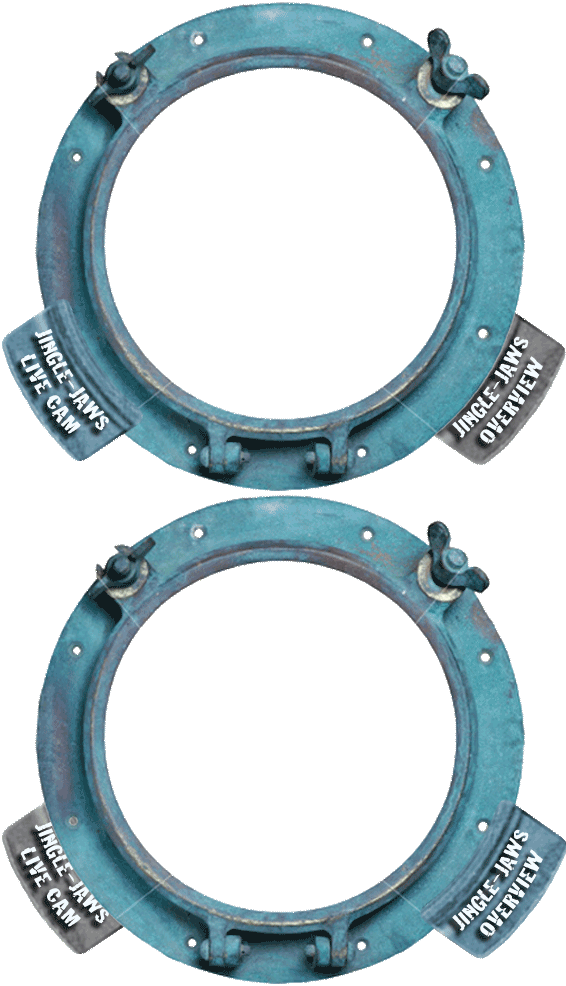
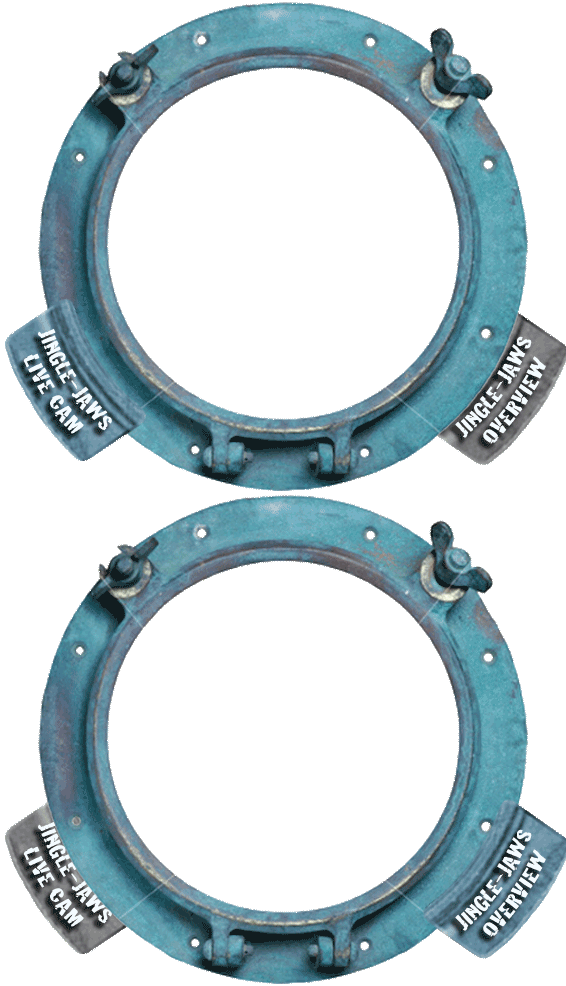
bunch of css and js to size, place and animate elements

diff --git a/src/rails/app/assets/javascripts/JJ/views/chum.js b/src/rails/app/assets/javascripts/JJ/views/chum.js
@@ -14,7 +14,15 @@ var CHUM = CHUM ||
 				_porthole: $('#porthole'),
 				_viewport: $('#viewport'),
 				_colLeft: $('#col-left'),
-				_colRight: $('#col-right')
+				_colRight: $('#col-right'),
+				_colMid: $('#col-mid'),
+				_controls: $('#controls'),
+				_logoWrap: $('#logo-wrap'),
+				_ticker: $('#ticker'),
+				_tank: $('#tank'),
+				_shark: $('#shark'),
+				_sleigh: $('#sleigh'),
+				_header: $('#header')
 			};
 		}(),
 
@@ -22,6 +30,8 @@ var CHUM = CHUM ||
 
 		$(CHUM.log);
 		$(CHUM.setVideoSize);
+		$(window).resize(CHUM.setVideoSize);
+		$(CHUM.global._logoWrap).click(CHUM.showContentState);
 	},
 
 	setVideoSize: function() {
@@ -30,17 +40,20 @@ var CHUM = CHUM ||
 				w: $(CHUM.global._mainWrap).width(),
 				h: $(CHUM.global._mainWrap).height()
 			},
-			colWidth = $(CHUM.global._colLeft).width() + $(CHUM.global._colRight).width(),
+			gutterWidth = $(CHUM.global._colLeft).width() + $(CHUM.global._colRight).width(),
 			pAspectRatio = 1.148,
-			vAspectRatio = 1.333,
 			pDims = {},
-			vDims = {}
-			pMax = {},
-			vMax = {};
+			vDims = {},
+			pMax = {};
 
 
-		pMax.w = wrapperDims.w - colWidth;
-		pMax.h = wrapperDims.h - 40;
+		$(CHUM.global._colMid).width(wrapperDims.w - gutterWidth);
+		CHUM.center(CHUM.global._colMid);
+
+		CHUM.center(CHUM.global._sleigh);
+		
+		pMax.w = wrapperDims.w - gutterWidth;
+		pMax.h = wrapperDims.h - 80;
 		CHUM.log(pMax);
 
 		pDims = pMax;
@@ -58,16 +71,84 @@ var CHUM = CHUM ||
 
 		$(CHUM.global._porthole).width(pDims.w);
 		$(CHUM.global._porthole).height(pDims.h);
+		$(CHUM.global._videoWrap).height(pDims.h);
+		$(CHUM.global._controls).css('top', pDims.h * -.15);
 
-		vDims.w = pDims.w * .840;
-		vDims.h = pDims.h * .739;
+		vDims.w = pDims.w * .84;
+		vDims.h = pDims.w * .84;
+		vDims.t = pDims.w * .12;
 
-		$(CHUM.global._viewport).width(vDims.w);
-		$(CHUM.global._viewport).height(vDims.h);
 		$(CHUM.global._viewport).css({
-			left: ( $(CHUM.global._videoWrap).width() - vDims.w ) / 2
+			width: vDims.w,
+			height: vDims.h
 		});
 
+		CHUM.center(CHUM.global._viewport);
+		CHUM.center($('video'), 'vertical');
+
+	},
+
+	center: function(ele, dim, context) {
+
+		context = context || $(ele).parent();
+		dim = dim || 'horizontal';
+
+		switch(dim) {
+			case 'vertical' : CHUM.log($(ele)); $(ele).css('top', ($(context).height() - $(ele).height()) / 2); break;
+			case 'horizontal' : $(ele).css('left', ($(context).width() - $(ele).width()) / 2); break;
+		}
+
+	},
+
+	showContentState: function() {
+
+
+
+		$(CHUM.global._sleigh).animate({
+			left: $(CHUM.global._ticker).width() + 150
+		}, 2000, function() {
+
+			$(CHUM.global._logoWrap).animate({
+				width: 390,
+				marginLeft: 102
+			}, 1000, function(){
+				$(CHUM.global._header).css({
+					height: 157,
+					backgroundPosition: '0 -40px'
+				});
+
+				$(CHUM.global._tank).animate({
+					height: 160
+				}, 1000);
+
+				$(CHUM.global._shark).animate({
+					height: 160,
+					width: 160,
+					marginLeft: 102
+				}, 1000, function(){
+
+					$('.content-col').css({
+						visibility: 'visible',
+						opacity: 1
+					});
+					$(CHUM.global._ticker).css({
+						width: '80%',
+						top: 'auto',
+						bottom: 10,
+						left: 262
+					});
+					CHUM.doTicker();
+				});
+			});
+
+		});
+	},
+
+	doTicker: function() {
+		$('#ticker-content').html('Well, shake it up, baby, now, (shake it up, baby) Twist and shout. (twist and shout) Cmon cmon, cmon, cmon, baby, now, (come on baby) Come on and work it on out. (work it on out)');
+		$(CHUM.global._sleigh).addClass('flip').animate({
+			left: -150
+		}, 10000);
 	},
 
 	log: function(msg) {

diff --git a/src/rails/app/assets/stylesheets/screen.scss b/src/rails/app/assets/stylesheets/screen.scss
@@ -9,6 +9,14 @@
 	-webkit-border-radius: $radius;
 	-moz-border-radius: $radius;
 }
+@mixin flipHorizontal {
+    -moz-transform: scaleX(-1);
+    -o-transform: scaleX(-1);
+    -webkit-transform: scaleX(-1);
+    transform: scaleX(-1);
+    filter: FlipH;
+    -ms-filter: "FlipH";
+}
 $headerHeight: 197px;
 $contentWidth: 997px;
 $videoWrapWidth: 566px;
@@ -36,6 +44,8 @@ $videoWrapWidth: 566px;
 
 	.content-col {
 		position: absolute;
+		visibility: hidden;
+		opacity: 0;
 	}
 	#col-left {
 		width: 215px;
@@ -43,7 +53,7 @@ $videoWrapWidth: 566px;
 		background-color: #666;
 	}
 	#col-mid {
-		width: 100%;
+		/*width: 100%;*/
 		height: 100%;
 		top: -140;
 	}
@@ -56,9 +66,9 @@ $videoWrapWidth: 566px;
 
 /*some default states*/
 
-#video-wrap {
-	display: none;
-}
+/*#video-wrap {*/
+	/*visibility: hidden;*/
+/*}*/
 
 /*main moving elements*/
 
@@ -107,84 +117,60 @@ $videoWrapWidth: 566px;
 }
 #ticker {
 	width: 100%;
+	height: 45px;
 	position: absolute;
 	top: $headerHeight - 20px;
+	overflow: hidden;
 	z-index: 2;
 
 	#sleigh {
+		position: absolute;
 		width: 150px;
 		height: 45px;
-		margin: 0 auto;
 		@include JJbgImage(image-url("img-sleigh-ltr.png"));
+	}
+
+	#sleigh.flip {
+		@include JJbgImage(image-url("img-sleigh-rtl.png"));
+		width: auto;
+		padding-left: 150px;
+
+		#ticker-content {
+			height: 15px;
+			padding-top:10px;
+			overflow: hidden;
+			font: normal 15px/15px Arial;
+		}
 	}
 }
 
 /*content state (everything except splash)*/
 
-#main-wrap.content-state {
-	$sharkHeight: 160px;
-	$sharkWidth: 160px;
-	$sharkLeftMargin: 102px;
-	#header {
-		height: $headerHeight - 40px;
-		background-position: 0 -40px;
-	}
-	#logo-wrap {
-		width: 390px;
-		margin: 0 102px;
-	}
-	#tank {
-		height: $sharkHeight;
 
-		#shark {
-			height: $sharkHeight;
-			width: $sharkWidth;
-			margin: 0 0 0 $sharkLeftMargin;
-		}
-	}
-	#ticker {
-		width: 80%;
-		top: auto;
-		bottom: 10px;
-		left: $sharkWidth + $sharkLeftMargin;
-	}
-	#sleigh {
-		margin: 0;
-	}
 	#video-wrap {
 		display: block;
-		width: 74%;
+		width: 100%;
 		height: 100%;
 		margin: 0 auto;
 		position: relative;
-		/*background-color: #fff;*/
 
 		#viewport {
-			width: 68%;
-			height: 68%;
 			position: absolute;
-			top: 6%;
-			left: 16%;
 			overflow: hidden;
 			@include rounded(50%);
 
 			video {
 				width: 100%;
+				height: 75%;
 				position: relative;
-				top: 2%;
-				left: 7%;
 			}
 		}
 		#porthole {
-			width: 81%;
-			height: 92%;
 			margin: 0 auto;
 			position: relative;
 			top: 0;
 			@include JJbgImage(image-url("bg-porthole.png"));
 			background-size: 100% 200%;
-			/*background-color: #ccc;*/
-			/*display: none;*/
 		}
 	}
 	#controls {
@@ -226,7 +212,6 @@ $videoWrapWidth: 566px;
 		#dive {
 			background-position: -386px -16px;
 		}
-	}
 
 }
 
